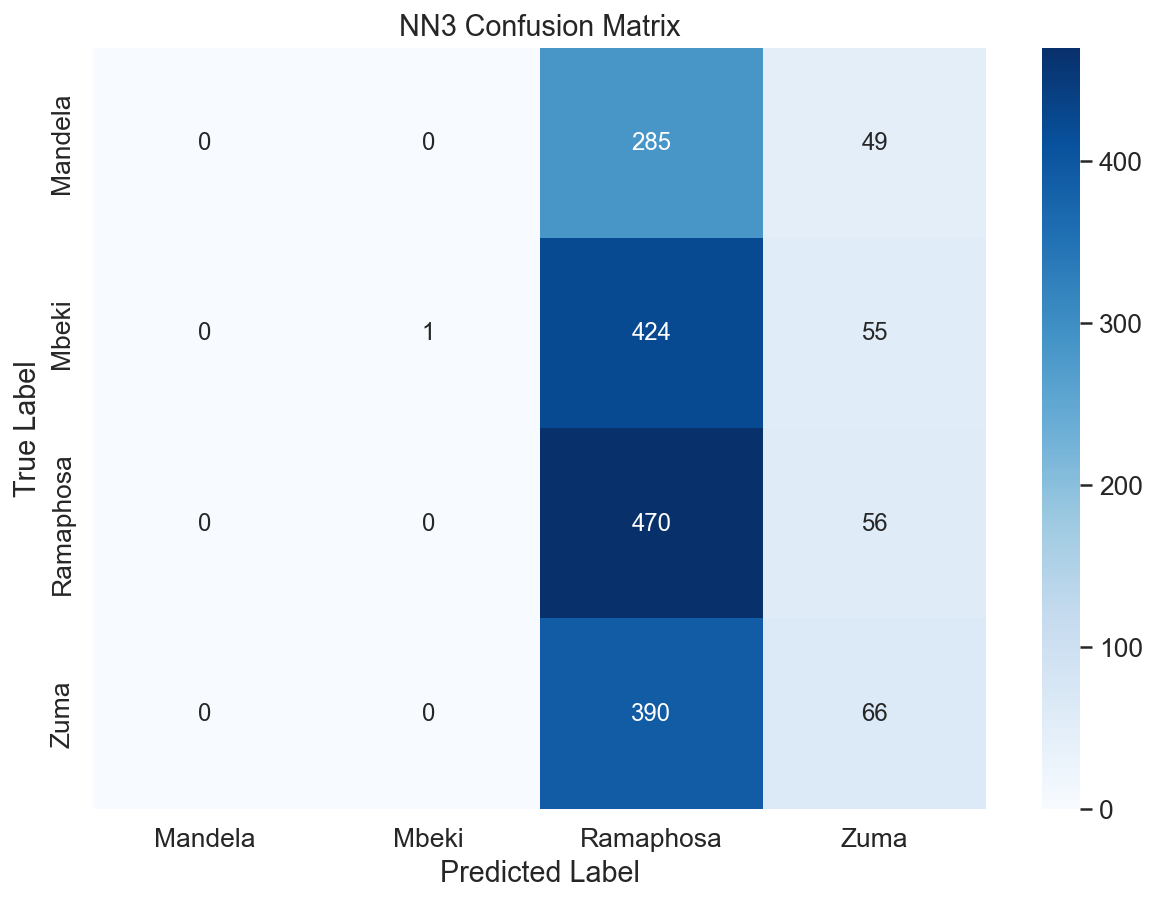
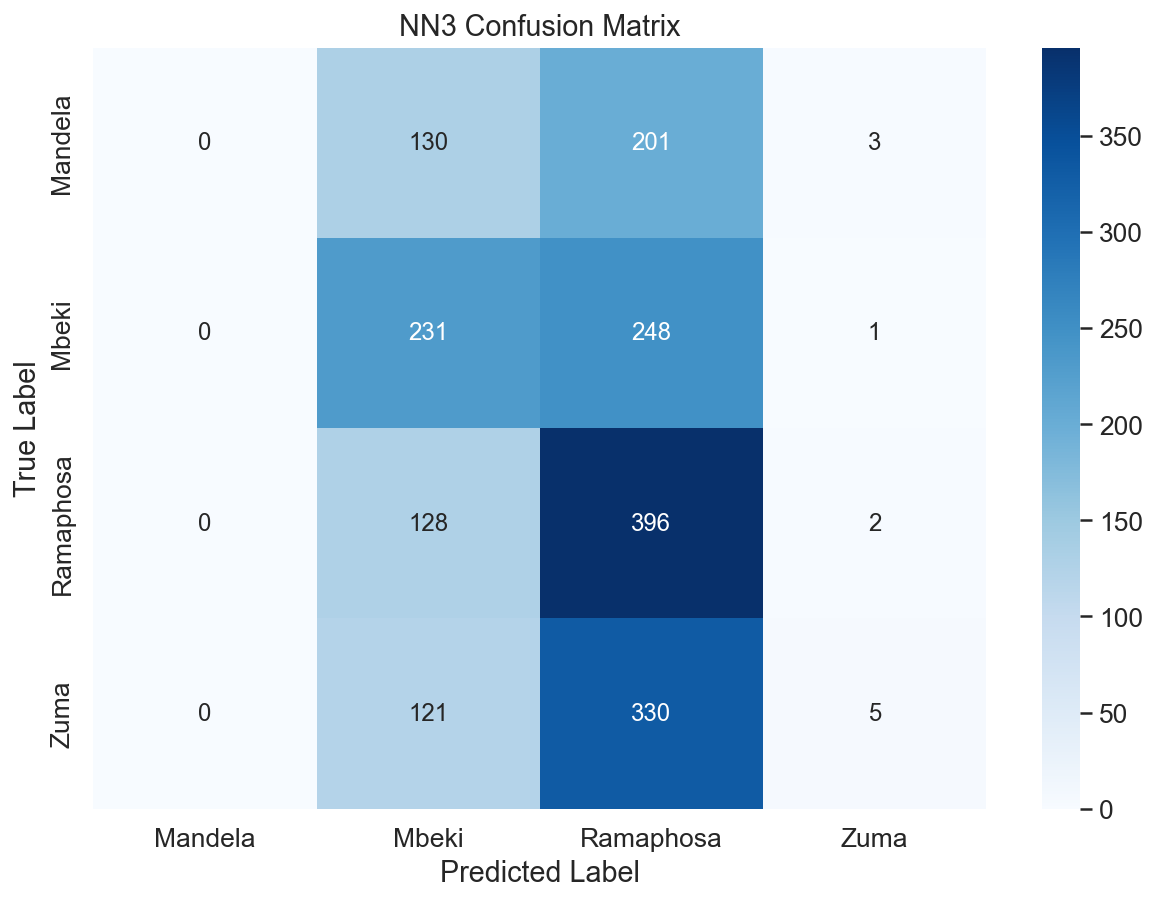
results looks different

diff --git a/docs/index.html b/docs/index.html
@@ -138,15 +138,13 @@ ul.task-list li input[type="checkbox"] {
   <li><a href="#tf-idf" id="toc-tf-idf" class="nav-link" data-scroll-target="#tf-idf">TF-IDF</a>
   <ul class="collapse">
   <li><a href="#boosted-trees-1" id="toc-boosted-trees-1" class="nav-link" data-scroll-target="#boosted-trees-1">Boosted Trees</a></li>
-  </ul></li>
-  <li><a href="#svm" id="toc-svm" class="nav-link" data-scroll-target="#svm">SVM</a>
-  <ul class="collapse">
+  <li><a href="#svm" id="toc-svm" class="nav-link" data-scroll-target="#svm">SVM</a></li>
   <li><a href="#neural-net" id="toc-neural-net" class="nav-link" data-scroll-target="#neural-net">Neural Net</a></li>
-  </ul></li>
   </ul></li>
   <li><a href="#word-embeddings-1" id="toc-word-embeddings-1" class="nav-link" data-scroll-target="#word-embeddings-1">Word Embeddings</a>
   <ul class="collapse">
   <li><a href="#catboost" id="toc-catboost" class="nav-link" data-scroll-target="#catboost">Catboost</a></li>
+  </ul></li>
   <li><a href="#svm-1" id="toc-svm-1" class="nav-link" data-scroll-target="#svm-1">SVM</a></li>
   <li><a href="#neural-network-1" id="toc-neural-network-1" class="nav-link" data-scroll-target="#neural-network-1">Neural Network</a></li>
   </ul></li>
@@ -238,9 +236,8 @@ ul.task-list li input[type="checkbox"] {
 <h2 class="anchored" data-anchor-id="model-evaluation-metrics">Model Evaluation Metrics</h2>
 <p>The evaluation of the models’ performance employed a suite of metrics to ensure a comprehensive assessment. The primary metric used is accuracy, defined as the ratio of correctly predicted observations to the total observations:</p>
 <p><span class="math inline">\(\text{Accuracy} = \frac{\text{Number of Correct Predictions}}{\text{Total Number of Predictions Made}}\)</span></p>
-<p>While accuracy is a straightforward and informative metric, it may not be sufficiently descriptive in situations where the classes are imbalanced. For this reason, additional evaluative metrics were incorporated into the assessment framework.</p>
-<p>The stratified k-fold cross-validation (with <span class="math inline">\(k = 5\)</span> ) technique used during the training phase of both Support Vector Machines (SVMs) and Neural Networks (NNs) facilitated the calculation of accuracy for both training and validation sets across all folds. The average accuracy computed from these folds provided a robust estimate of each model’s generalization performance.</p>
-<p>Subsequently, confusion matrices were generated for the models. A confusion matrix is a table used to describe the performance of a classification algorithm. Each row of the matrix represents the instances of the actual class, while each column represents the instances of the predicted class. The entries on the main diagonal of the confusion matrix correspond to correct predictions, whereas other entries reflect the mistakes made by the classifier. Through the confusion matrix, various metrics including precision, recall, and the F1-score were computed to provide a detailed understanding of the model’s performance. Precision (the ratio of true positive predictions to the sum of true positive and false positive predictions), recall (the ratio of true positive predictions to the sum of true positive and false negative predictions), and the F1-score (the harmonic mean of precision and recall) offer deeper insights into the reliability and effectiveness of the models, especially in the presence of class imbalance.</p>
+<p>While accuracy is a straightforward and informative metric, it may not be sufficiently descriptive in situations where the classes are imbalanced. For this reason, additional evaluative metrics were incorporated into the assessment framework. The stratified k-fold cross-validation (with <span class="math inline">\(k = 5\)</span> ) technique used during the training phase of both Support Vector Machines (SVMs) and Neural Networks (NNs) facilitated the calculation of accuracy for both training and validation sets across all folds. The average accuracy computed from these folds provided a robust estimate of each model’s generalization performance.</p>
+<p>Subsequently, confusion matrices were generated for the models. A confusion matrix is a table used to describe the performance of a classification algorithm. Each row of the matrix represents the instances of the actual class, while each column represents the instances of the predicted class. The entries on the main diagonal of the confusion matrix correspond to correct predictions, whereas other entries reflect the mistakes made by the classifier. Through the confusion matrix, vthe F1-score was computed to provide a detailed understanding of the model’s performance, F1 score is compoed of two other metrics in precision and recall. Precision (the ratio of true positive predictions to the sum of true positive and false positive predictions), recall (the ratio of true positive predictions to the sum of true positive and false negative predictions), are both utilized to form F1-score (the harmonic mean of precision and recall).</p>
 <p>For the Gradient Boosted Trees model, the loss function was an essential aspect of evaluation. The loss function is a measure used to estimate the discrepancy between the predicted values and actual values. During the training process, the algorithm optimizes the model parameters to minimize this loss function, thereby improving the model’s predictive performance. Monitoring the change in the value of the loss function during the training process provides insights into the convergence and stability of the model, helping in understanding whether the model is learning effectively from the training data. For each training epoch, the loss was computed and analyzed to ensure the model was converging to a solution that minimized prediction errors.</p>
 </section>
 </section>
@@ -344,19 +341,16 @@ Test Accuracy: 58.80%</code></pre>
 <pre><code> 1/57 [..............................] - ETA: 5s</code></pre>
 </div>
 <div class="cell-output cell-output-stdout">
-<pre><code> 9/57 [===&gt;..........................] - ETA: 0s</code></pre>
+<pre><code>10/57 [====&gt;.........................] - ETA: 0s</code></pre>
 </div>
 <div class="cell-output cell-output-stdout">
-<pre><code>17/57 [=======&gt;......................] - ETA: 0s</code></pre>
+<pre><code>19/57 [=========&gt;....................] - ETA: 0s</code></pre>
 </div>
 <div class="cell-output cell-output-stdout">
-<pre><code>25/57 [============&gt;.................] - ETA: 0s</code></pre>
+<pre><code>28/57 [=============&gt;................] - ETA: 0s</code></pre>
 </div>
 <div class="cell-output cell-output-stdout">
-<pre><code>33/57 [================&gt;.............] - ETA: 0s</code></pre>
-</div>
-<div class="cell-output cell-output-stdout">
-<pre><code>39/57 [===================&gt;..........] - ETA: 0s</code></pre>
+<pre><code>37/57 [==================&gt;...........] - ETA: 0s</code></pre>
 </div>
 <div class="cell-output cell-output-stdout">
 <pre><code>46/57 [=======================&gt;......] - ETA: 0s</code></pre>
@@ -365,10 +359,10 @@ Test Accuracy: 58.80%</code></pre>
 <pre><code>55/57 [===========================&gt;..] - ETA: 0s</code></pre>
 </div>
 <div class="cell-output cell-output-stdout">
-<pre><code>57/57 [==============================] - 0s 7ms/step</code></pre>
+<pre><code>57/57 [==============================] - 0s 6ms/step</code></pre>
 </div>
 <div class="cell-output cell-output-display">
-<p><img src="index_files/figure-html/cell-23-output-10.png" class="img-fluid"></p>
+<p><img src="index_files/figure-html/cell-23-output-9.png" class="img-fluid"></p>
 </div>
 </div>
 </section>
@@ -411,9 +405,8 @@ Test Accuracy: 58.80%</code></pre>
 </div>
 </div>
 </section>
-</section>
-<section id="svm" class="level2">
-<h2 class="anchored" data-anchor-id="svm">SVM</h2>
+<section id="svm" class="level3">
+<h3 class="anchored" data-anchor-id="svm">SVM</h3>
 <p>grid search SVM</p>
 <p>best params: 10, ‘gamma’: ‘scale’, ‘kernel’: ‘rbf’</p>
 <div class="cell" data-execution_count="31">
@@ -428,6 +421,7 @@ Test Accuracy: 58.80%</code></pre>
 </div>
 <p>In Figure XXX for the SVM classifier using TF- IDF feature extraction the confusion matrix denotes: Mandela at 42.8%, with 143 correct predictions out of 334; Mbeki at 61.9%, with 297 correct predictions out of 480; Ramaphosa at 64.3%, with 293 correct predictions out of 456; and Zuma at 70.5%, with 371 correct predictions out of 526.</p>
 <p>In terms of misclassifications, 94 Mandela instances were classified as Mbeki, 41 as Ramaphosa, and 56 as Zuma. For the Mbeki class, 59 instances were misclassified as Mandela, 44 as Ramaphosa, and 80 as Zuma. The classifier misidentified 23 Ramaphosa instances as Mandela, 31 as Mbeki, and 109 as Zuma. Finally, in the Zuma category, there were 25 instances misclassified as Mandela, 55 as Mbeki, and 75 as Ramaphosa.</p>
+</section>
 <section id="neural-net" class="level3">
 <h3 class="anchored" data-anchor-id="neural-net">Neural Net</h3>
 <div class="cell" data-execution_count="33">
@@ -449,37 +443,39 @@ Test Accuracy: 59.58%</code></pre>
 <pre><code> 1/57 [..............................] - ETA: 4s</code></pre>
 </div>
 <div class="cell-output cell-output-stdout">
-<pre><code>28/57 [=============&gt;................] - ETA: 0s</code></pre>
+<pre><code>27/57 [=============&gt;................] - ETA: 0s</code></pre>
+</div>
+<div class="cell-output cell-output-stdout">
+<pre><code>54/57 [===========================&gt;..] - ETA: 0s</code></pre>
 </div>
 <div class="cell-output cell-output-stdout">
 <pre><code>57/57 [==============================] - 0s 2ms/step</code></pre>
 </div>
 <div class="cell-output cell-output-display">
-<p><img src="index_files/figure-html/cell-36-output-4.png" class="img-fluid"></p>
+<p><img src="index_files/figure-html/cell-36-output-5.png" class="img-fluid"></p>
 </div>
 </div>
 </section>
 </section>
-</section>
-<section id="word-embeddings-1" class="level1">
-<h1>Word Embeddings</h1>
-<section id="catboost" class="level2">
-<h2 class="anchored" data-anchor-id="catboost">Catboost</h2>
+<section id="word-embeddings-1" class="level2">
+<h2 class="anchored" data-anchor-id="word-embeddings-1">Word Embeddings</h2>
+<section id="catboost" class="level3">
+<h3 class="anchored" data-anchor-id="catboost">Catboost</h3>
 <p>Accuracy: 29.18%</p>
 <div class="cell" data-execution_count="37">
 <div class="cell-output cell-output-stdout">
-<pre><code>Accuracy: 29.68%
+<pre><code>Accuracy: 28.84%
 Classification Report:
               precision    recall  f1-score   support
 
      Mandela       0.00      0.00      0.00       334
-       Mbeki       0.00      0.00      0.00       480
-   Ramaphosa       0.30      0.96      0.45       526
-        Zuma       0.33      0.06      0.11       456
+       Mbeki       0.25      0.00      0.00       480
+   Ramaphosa       0.29      0.92      0.45       526
+        Zuma       0.22      0.07      0.10       456
 
-    accuracy                           0.30      1796
-   macro avg       0.16      0.26      0.14      1796
-weighted avg       0.17      0.30      0.16      1796
+    accuracy                           0.29      1796
+   macro avg       0.19      0.25      0.14      1796
+weighted avg       0.21      0.29      0.16      1796
 </code></pre>
 </div>
 <div class="cell-output cell-output-stderr">
@@ -502,33 +498,31 @@ Precision and F-score are ill-defined and being set to 0.0 in labels with no pre
 <p><img src="index_files/figure-html/cell-39-output-1.png" class="img-fluid"></p>
 </div>
 </div>
-<p>In Figure 6 we look to the confusion matrix of the GBT using word embeddings. For Mandela, there were 38 correct predictions from 334 instances, translating to an accuracy of 11.4%. The Mbeki class had 10 correct predictions from 480 instances, resulting in an accuracy of just 2.1%. The classifier showed a stronger performance for the Ramaphosa class, correctly identifying 342 out of 526 instances, yielding an accuracy of 65.0%. The Zuma class had 163 correct predictions from 456 instances, resulting in an accuracy of 35.7%.</p>
+<p>In Figure XXX we look to the confusion matrix of the GBT using word embeddings. For Mandela, there were 38 correct predictions from 334 instances, translating to an accuracy of 11.4%. The Mbeki class had 10 correct predictions from 480 instances, resulting in an accuracy of just 2.1%. The classifier showed a stronger performance for the Ramaphosa class, correctly identifying 342 out of 526 instances, yielding an accuracy of 65.0%. The Zuma class had 163 correct predictions from 456 instances, resulting in an accuracy of 35.7%.</p>
 <p>Misclassifications were also evident. Notably, 183 Mandela instances were misclassified as Ramaphosa and 111 as Zuma. For Mbeki, the classifier misidentified 244 instances as Ramaphosa and 150 as Zuma. The Ramaphosa class had 141 instances misclassified as Zuma, with smaller numbers of misclassifications into Mandela (39) and Mbeki (4). For Zuma, there were 254 instances misclassified as Ramaphosa, 36 as Mandela, and 3 as Mbeki.</p>
 <div class="cell" data-execution_count="39">
-<div class="cell-output cell-output-display" data-execution_count="39">
-<pre><code>Text(64.5, 0.5, 'True Label')</code></pre>
-</div>
 <div class="cell-output cell-output-display">
-<p><img src="index_files/figure-html/cell-40-output-2.png" class="img-fluid"></p>
+<p><img src="index_files/figure-html/cell-40-output-1.png" class="img-fluid"></p>
 </div>
 </div>
+</section>
 </section>
 <section id="svm-1" class="level2">
 <h2 class="anchored" data-anchor-id="svm-1">SVM</h2>
 <div class="cell" data-execution_count="41">
 <div class="cell-output cell-output-stdout">
-<pre><code>Accuracy (Specific SVM): 29.45%
+<pre><code>Accuracy (Specific SVM): 29.29%
 Classification Report (Specific SVM):
               precision    recall  f1-score   support
 
      Mandela       0.00      0.00      0.00       334
        Mbeki       0.00      0.00      0.00       480
-        Zuma       0.30      0.96      0.45       526
-   Ramaphosa       0.26      0.06      0.09       456
+        Zuma       0.29      1.00      0.45       526
+   Ramaphosa       0.00      0.00      0.00       456
 
     accuracy                           0.29      1796
-   macro avg       0.14      0.25      0.14      1796
-weighted avg       0.15      0.29      0.16      1796
+   macro avg       0.07      0.25      0.11      1796
+weighted avg       0.09      0.29      0.13      1796
 </code></pre>
 </div>
 <div class="cell-output cell-output-stderr">
@@ -565,18 +559,18 @@ Precision and F-score are ill-defined and being set to 0.0 in labels with no pre
 <p>Test Accuracy: 36.69%</p>
 <div class="cell" data-execution_count="44">
 <div class="cell-output cell-output-stdout">
-<pre><code>Test Loss: 1.5293
-Test Accuracy: 29.90%</code></pre>
+<pre><code>Test Loss: 1.3490
+Test Accuracy: 35.19%</code></pre>
 </div>
 </div>
-<p>We finally examine the confusion matrix for the NN using word embeddings in figure XXX. For the Mandela class, there were no correct predictions from the 334 instances, resulting in a classification accuracy of 0%, notably the model did not predict a single sentence as belonging to Madela. The Mbeki class secured a higher accuracy of 68.5%, with 329 correct predictions out of 480 instances. The Ramaphosa class was correctly identified in 283 out of 526 instances, translating to an accuracy of 53.8%. The Zuma class saw 47 correct predictions from 456 instances, yielding an accuracy of 10.3%.</p>
+<p>We finally examine the confusion matrix for the NN using word embeddings in figure XXX. For the Mandela class, there were no correct predictions from the 334 instances, resulting in a classification accuracy of 0%, notably the model did not predict a single sentence as belonging to Madela. The Mbeki class secured a higher accuracy of 68.5%, with 329 correct predictions out of 480 instances. The Ramaphosa class was correctly identified in 283 out of 526 instances, translating to an accuracy of 53.8%. The Zuma class saw 47 correct predictions from 456 instances, yielding an accuracy of 10.3%. In a similar vein as the SVM, we find that the model tends to</p>
 <p>In terms of misclassifications, the Mandela class was predominantly misclassified as Mbeki (196 instances), followed by Ramaphosa (111 instances) and Zuma (27 instances). For the Mbeki class, there were 131 instances misclassified as Ramaphosa and 20 as Zuma. In the Ramaphosa class, a significant 214 instances were misclassified as Mbeki, with 29 as Zuma. Lastly, the Zuma class had substantial misclassifications into Mbeki (205 instances) and Ramaphosa (204 instances). These patterns highlight areas of misclassification and suggest potential avenues for improving the SVM classifier’s performance. Overall this model seemed to overpredict sentences as belonging to either Mbeki or Ramaphosa.</p>
 <div class="cell" data-execution_count="45">
 <div class="cell-output cell-output-stdout">
-<pre><code> 1/57 [..............................] - ETA: 2s</code></pre>
+<pre><code> 1/57 [..............................] - ETA: 3s</code></pre>
 </div>
 <div class="cell-output cell-output-stdout">
-<pre><code>40/57 [====================&gt;.........] - ETA: 0s</code></pre>
+<pre><code>43/57 [=====================&gt;........] - ETA: 0s</code></pre>
 </div>
 <div class="cell-output cell-output-stdout">
 <pre><code>57/57 [==============================] - 0s 1ms/step</code></pre>
